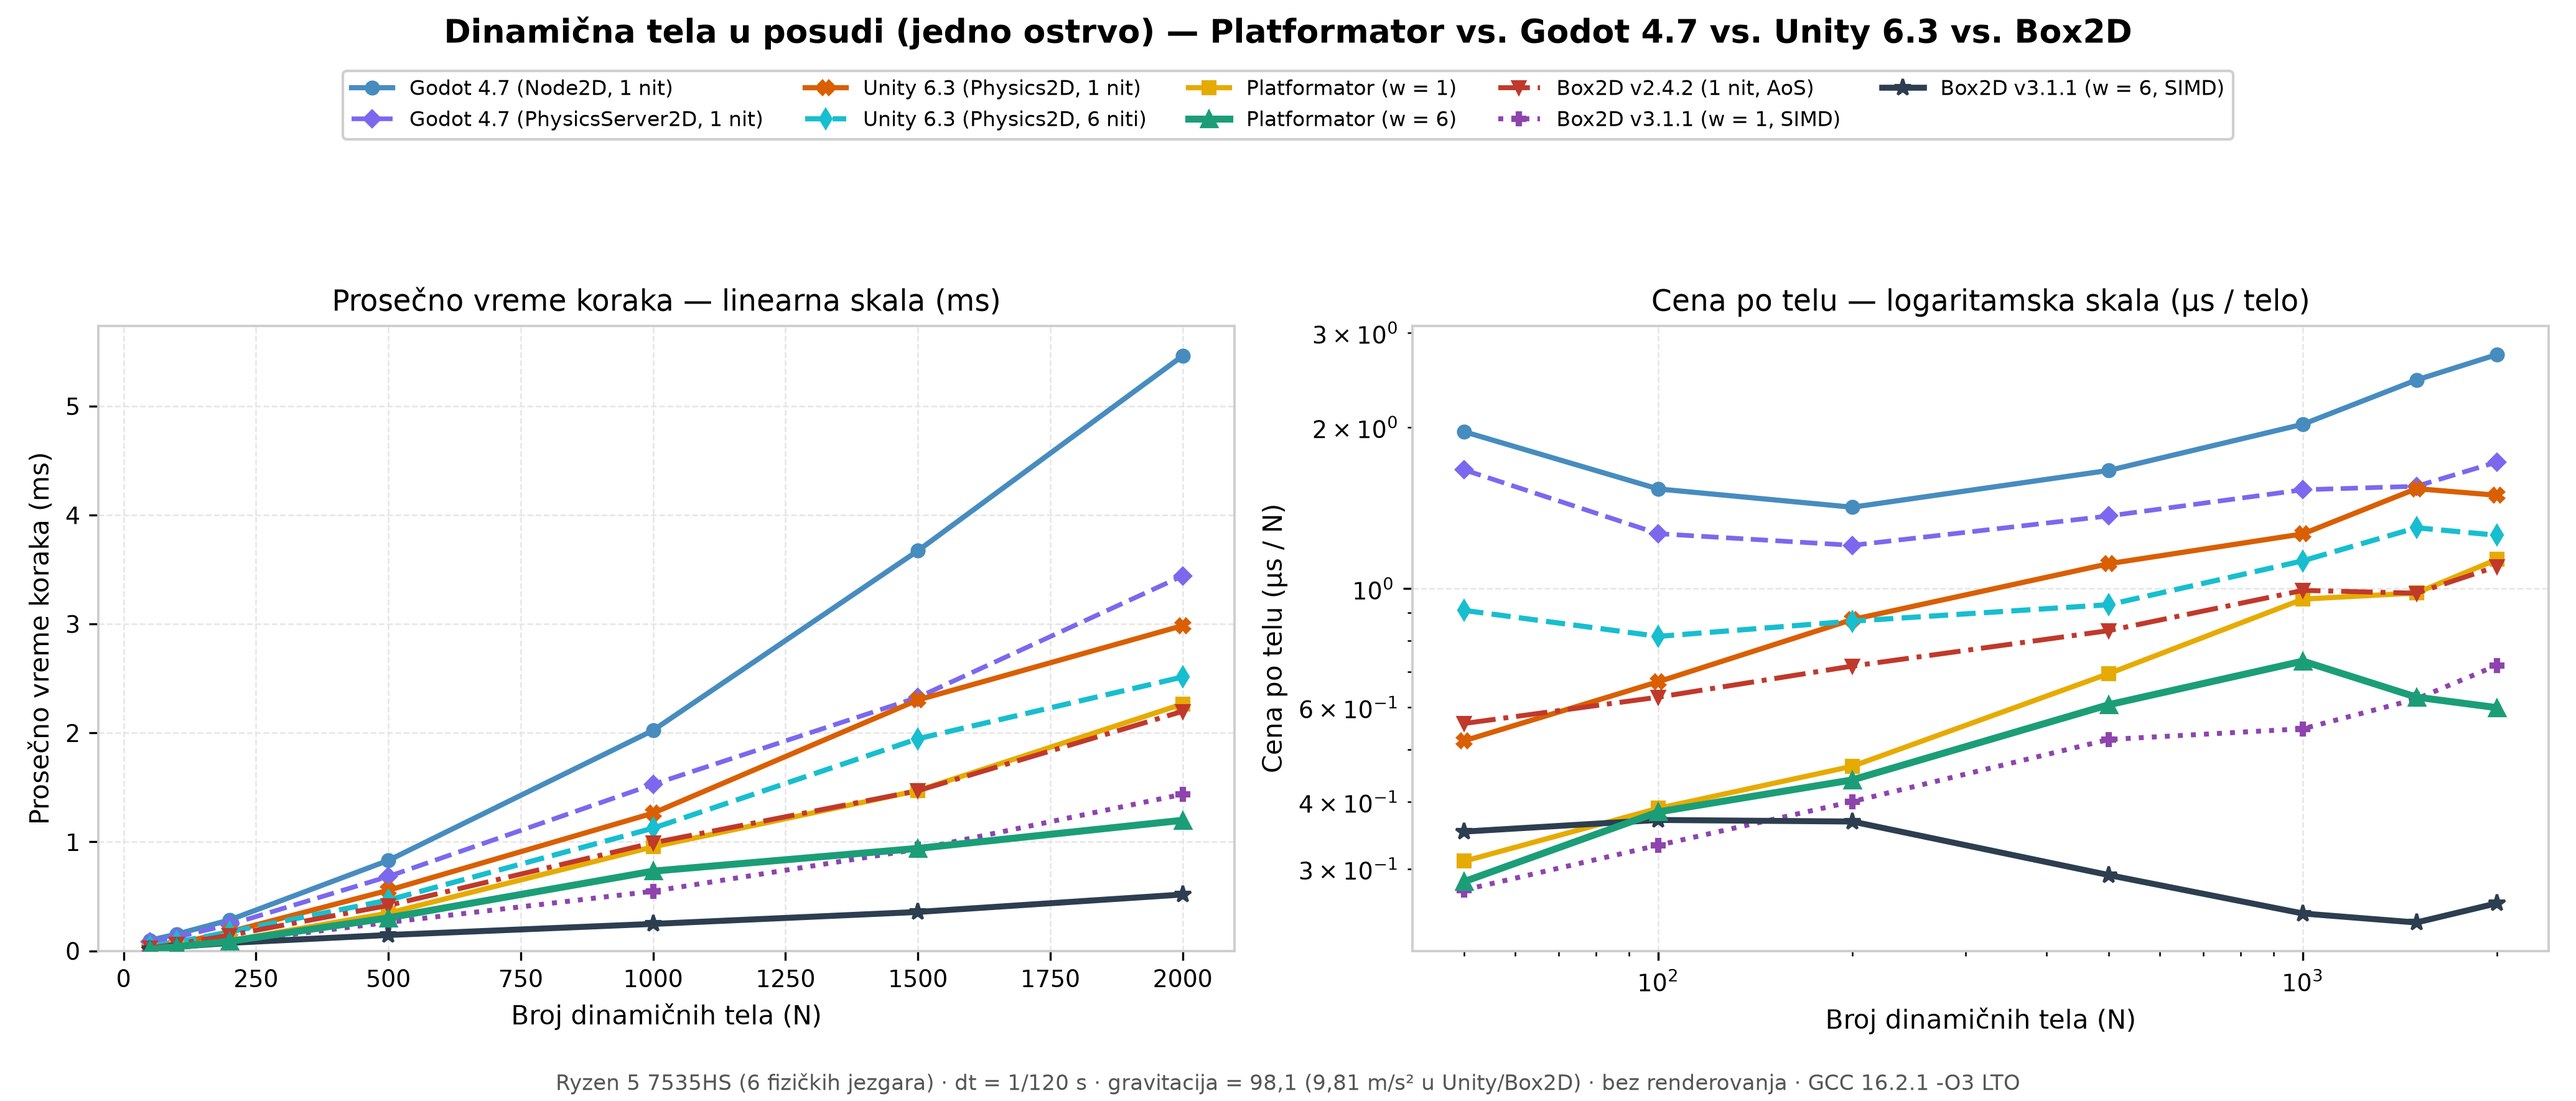
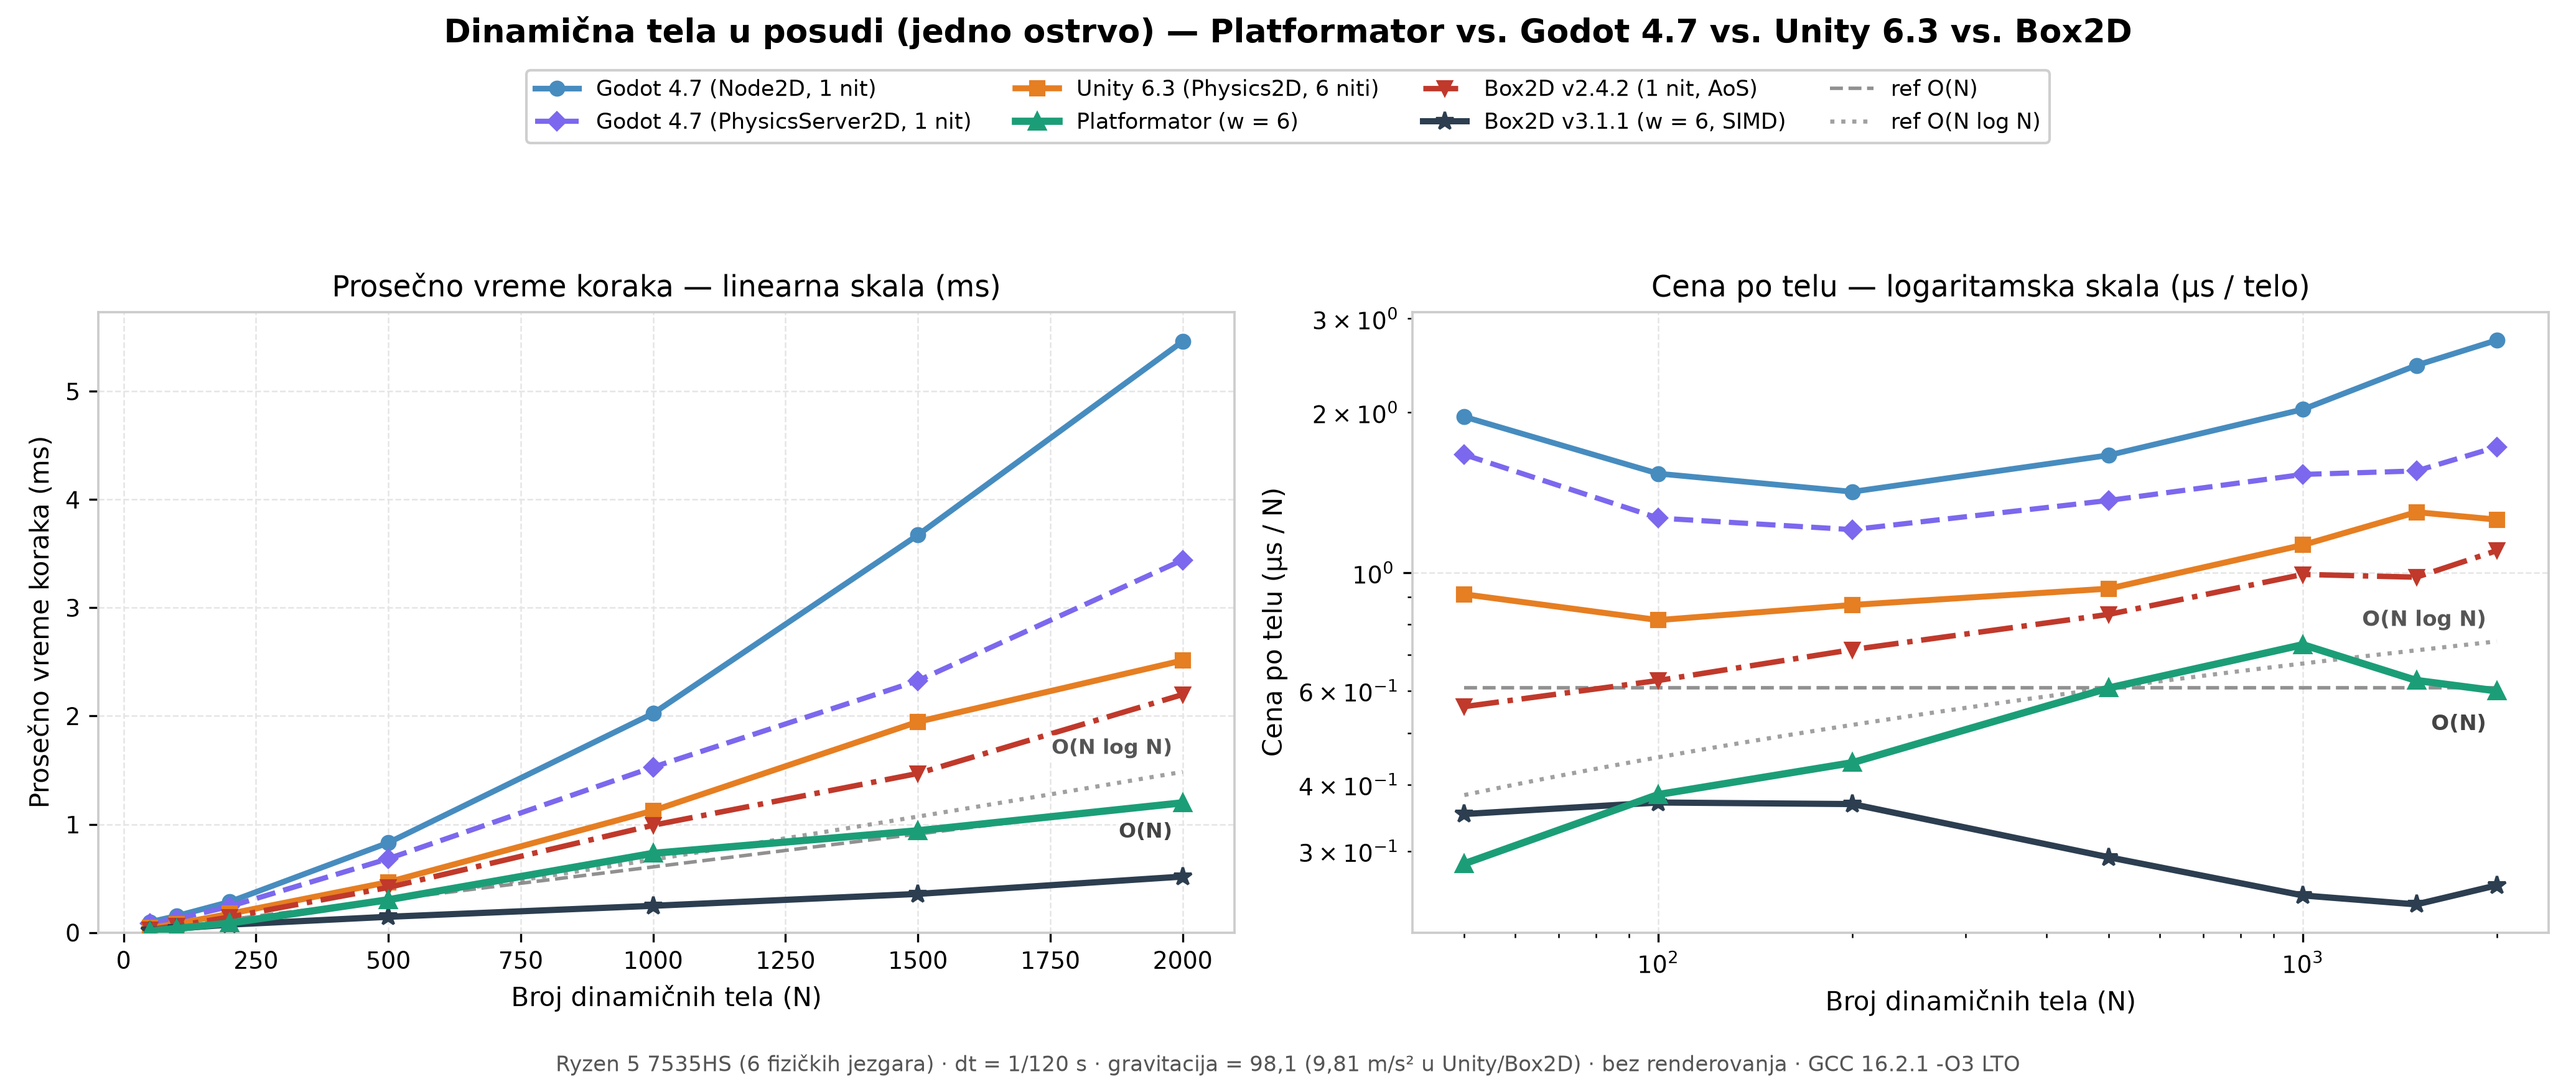
benchmark stuff

diff --git a/engine/benchmarks/plot_cross_engine.py b/engine/benchmarks/plot_cross_engine.py
@@ -19,18 +19,27 @@ import numpy as np
 
 
 SERIES_STYLE = {
-    "godot_node":      {"color": "#478cbf", "marker": "o", "ls": "-",  "lw": 2.0, "ms": 4.8, "z": 3},
-    "godot_server":    {"color": "#7b68ee", "marker": "D", "ls": "--", "lw": 1.8, "ms": 4.4, "z": 3},
-    "unity_w1":        {"color": "#d95f02", "marker": "X", "ls": "-",  "lw": 2.0, "ms": 5.2, "z": 4},
-    "unity_w6":        {"color": "#17becf", "marker": "d", "ls": "--", "lw": 2.0, "ms": 5.0, "z": 4},
-    "platformator_w1": {"color": "#e6ab02", "marker": "s", "ls": "-",  "lw": 2.0, "ms": 4.6, "z": 4},
-    "platformator_w6": {"color": "#1b9e77", "marker": "^", "ls": "-",  "lw": 2.7, "ms": 6.0, "z": 6},
-    "box2d_v2":        {"color": "#c0392b", "marker": "v", "ls": "-.", "lw": 1.9, "ms": 4.8, "z": 4},
+    "godot_node":      {"color": "#478cbf", "marker": "o", "ls": "-",  "lw": 2.2, "ms": 5.2, "z": 3},
+    "godot_server":    {"color": "#7b68ee", "marker": "D", "ls": "--", "lw": 2.0, "ms": 4.8, "z": 3},
+    "unity_w1":        {"color": "#d95f02", "marker": "X", "ls": ":",  "lw": 1.9, "ms": 5.0, "z": 3},
+    "unity_w6":        {"color": "#e67e22", "marker": "s", "ls": "-",  "lw": 2.3, "ms": 5.2, "z": 4},
+    "platformator_w1": {"color": "#d4ac0d", "marker": "p", "ls": ":",  "lw": 1.9, "ms": 4.8, "z": 4},
+    "platformator_w6": {"color": "#1b9e77", "marker": "^", "ls": "-",  "lw": 2.8, "ms": 6.4, "z": 6},
+    "box2d_v2":        {"color": "#c0392b", "marker": "v", "ls": "-.", "lw": 2.1, "ms": 5.2, "z": 4},
     "box2d_v3_w1":     {"color": "#8e44ad", "marker": "P", "ls": ":",  "lw": 1.9, "ms": 5.0, "z": 4},
-    "box2d_v3_w6":     {"color": "#2c3e50", "marker": "*", "ls": "-",  "lw": 2.3, "ms": 6.8, "z": 5},
+    "box2d_v3_w6":     {"color": "#2c3e50", "marker": "*", "ls": "-",  "lw": 2.4, "ms": 7.2, "z": 5},
 }
 
-SERIES_ORDER = [
+DEFAULT_SERIES_ORDER = [
+    "godot_node",
+    "godot_server",
+    "unity_w6",
+    "platformator_w6",
+    "box2d_v2",
+    "box2d_v3_w6",
+]
+
+ALL_SERIES_ORDER = [
     "godot_node",
     "godot_server",
     "unity_w1",
@@ -71,6 +80,8 @@ TEXT = {
         "y_norm": "Cost per body (µs / N)",
         "budget_120": "120 Hz budget (8.33 ms)",
         "budget_60": "60 Hz budget (16.67 ms)",
+        "ref_n": "ref O(N)",
+        "ref_nlogn": "ref O(N log N)",
         "overview_title": "Cross-Engine 2D Physics Comparison — Platformator, Godot 4.7, Unity 6.3 & Box2D",
         "overview_left": "Mean Step Time at High Load (Log Scale, Lower is Better)",
         "overview_right": "Ratio vs. Platformator (w = 6) at High Load (>1× = Platformator Faster)",
@@ -106,6 +117,8 @@ TEXT = {
         "y_norm": "Cena po telu (µs / N)",
         "budget_120": "Budžet 120 Hz (8,33 ms)",
         "budget_60": "Budžet 60 Hz (16,67 ms)",
+        "ref_n": "ref O(N)",
+        "ref_nlogn": "ref O(N log N)",
         "overview_title": "Među-motorno poređenje 2D fizike — Platformator, Godot 4.7, Unity 6.3 i Box2D",
         "overview_left": "Prosečno vreme koraka pri visokom opterećenju (log skala, niže je bolje)",
         "overview_right": "Odnos naspram Platformator (w = 6) (>1× = Platformator brži)",
@@ -145,32 +158,25 @@ def extract_series(rows, key):
     return xs, ys
 
 
-def plot_scenario(data: dict, scenario: str, lang: str, out_path: Path):
+def plot_scenario(data: dict, scenario: str, lang: str, out_path: Path, series_order):
     t = TEXT[lang]
     title, xlabel = t["scenarios"][scenario]
     rows = data["sweeps"][scenario]
 
-    fig, (ax1, ax2) = plt.subplots(1, 2, figsize=(13.8, 5.9), dpi=300)
+    fig, (ax1, ax2) = plt.subplots(1, 2, figsize=(13.8, 5.8), dpi=300)
     fig.suptitle(f"{title} — Platformator vs. Godot 4.7 vs. Unity 6.3 vs. Box2D", fontsize=12.6, fontweight="bold", y=0.985)
 
-    max_y = 0.0
-    for key in SERIES_ORDER:
+    for key in series_order:
         xs, ys = extract_series(rows, key)
         if not xs:
             continue
         st = SERIES_STYLE[key]
         lbl = t["labels"][key]
-        max_y = max(max_y, max(ys))
         ax1.plot(xs, ys, color=st["color"], marker=st["marker"], linestyle=st["ls"],
                  linewidth=st["lw"], markersize=st["ms"], label=lbl, zorder=st["z"])
         us_per_body = [(y * 1000.0) / float(x) for x, y in zip(xs, ys)]
         ax2.plot(xs, us_per_body, color=st["color"], marker=st["marker"], linestyle=st["ls"],
                  linewidth=st["lw"], markersize=st["ms"], zorder=st["z"])
-
-    if max_y >= 6.0:
-        ax1.axhline(8.333, color="#d62728", linestyle="--", linewidth=1.1, alpha=0.8, label=t["budget_120"])
-    if max_y >= 14.0:
-        ax1.axhline(16.667, color="#666666", linestyle=":", linewidth=1.2, alpha=0.85, label=t["budget_60"])
 
     ax1.set_title(t["panel_linear"])
     ax1.set_xlabel(xlabel)
@@ -183,23 +189,102 @@ def plot_scenario(data: dict, scenario: str, lang: str, out_path: Path):
     ax2.set_yscale("log")
     ax2.set_xscale("log")
 
+    # Add closest-fit asymptotic complexity references on BOTH left (linear ms) and right (log-log µs/N) panels.
+    p6_xs, p6_ys = extract_series(rows, "platformator_w6")
+    if p6_xs:
+        mid_idx = len(p6_xs) // 2
+        anchor_n = float(p6_xs[mid_idx])
+        anchor_ms = float(p6_ys[mid_idx])
+        anchor_us = (anchor_ms * 1000.0) / anchor_n
+
+        n_lin = np.linspace(float(p6_xs[0]), float(p6_xs[-1]), 160)
+        ref_n_ms = anchor_ms * (n_lin / anchor_n)
+        ref_nlogn_ms = anchor_ms * (n_lin * np.log2(n_lin)) / (anchor_n * np.log2(anchor_n))
+
+        ax1.plot(n_lin, ref_n_ms, color="#555555", linestyle="--", linewidth=1.35, alpha=0.65,
+                 label=t["ref_n"], zorder=2)
+        ax1.plot(n_lin, ref_nlogn_ms, color="#888888", linestyle=":", linewidth=1.6, alpha=0.80,
+                 label=t["ref_nlogn"], zorder=2)
+
+        ax1.annotate(
+            "O(N)",
+            xy=(n_lin[-1], ref_n_ms[-1]),
+            xytext=(-4, -8),
+            textcoords="offset points",
+            ha="right",
+            va="top",
+            fontsize=8.0,
+            fontweight="bold",
+            color="#444444",
+            bbox={"boxstyle": "round,pad=0.14", "fc": "white", "ec": "none", "alpha": 0.78},
+            zorder=7,
+        )
+        ax1.annotate(
+            "O(N log N)",
+            xy=(n_lin[-1], ref_nlogn_ms[-1]),
+            xytext=(-4, 5),
+            textcoords="offset points",
+            ha="right",
+            va="bottom",
+            fontsize=8.0,
+            fontweight="bold",
+            color="#555555",
+            bbox={"boxstyle": "round,pad=0.14", "fc": "white", "ec": "none", "alpha": 0.78},
+            zorder=7,
+        )
+
+        n_grid = np.geomspace(float(p6_xs[0]), float(p6_xs[-1]), 120)
+        ref_n_vals = np.full_like(n_grid, anchor_us)
+        ref_nlogn_vals = anchor_us * (np.log2(n_grid) / np.log2(anchor_n))
+
+        ax2.plot(n_grid, ref_n_vals, color="#555555", linestyle="--", linewidth=1.35, alpha=0.65, zorder=2)
+        ax2.plot(n_grid, ref_nlogn_vals, color="#888888", linestyle=":", linewidth=1.6, alpha=0.80, zorder=2)
+
+        ax2.annotate(
+            "O(N)",
+            xy=(n_grid[-1], ref_n_vals[-1]),
+            xytext=(-4, -10),
+            textcoords="offset points",
+            ha="right",
+            va="top",
+            fontsize=8.2,
+            fontweight="bold",
+            color="#444444",
+            bbox={"boxstyle": "round,pad=0.16", "fc": "white", "ec": "none", "alpha": 0.78},
+            zorder=7,
+        )
+        ax2.annotate(
+            "O(N log N)",
+            xy=(n_grid[-1], ref_nlogn_vals[-1]),
+            xytext=(-4, 4),
+            textcoords="offset points",
+            ha="right",
+            va="bottom",
+            fontsize=8.2,
+            fontweight="bold",
+            color="#555555",
+            bbox={"boxstyle": "round,pad=0.16", "fc": "white", "ec": "none", "alpha": 0.78},
+            zorder=7,
+        )
+
     handles, labels = ax1.get_legend_handles_labels()
+    ncol = 4 if len(handles) <= 8 else 5
     fig.legend(handles, labels, loc="upper center", bbox_to_anchor=(0.5, 0.945),
-               ncol=5 if len(handles) >= 9 else 4, frameon=True, framealpha=0.94, fontsize=8.0)
+               ncol=ncol, frameon=True, framealpha=0.94, fontsize=8.4)
 
     fig.text(0.5, 0.01, t["footer"], ha="center", fontsize=8.2, color="#555555")
-    plt.tight_layout(rect=[0, 0.035, 1, 0.82])
+    plt.tight_layout(rect=[0, 0.035, 1, 0.83])
     out_path.parent.mkdir(parents=True, exist_ok=True)
     fig.savefig(out_path, dpi=300)
     plt.close(fig)
 
 
-def plot_overview(data: dict, lang: str, out_path: Path):
+def plot_overview(data: dict, lang: str, out_path: Path, series_order):
     t = TEXT[lang]
-    fig, (ax1, ax2) = plt.subplots(1, 2, figsize=(14.4, 5.7), dpi=300)
-    fig.suptitle(t["overview_title"], fontsize=12.8, fontweight="bold", y=0.98)
+    fig, (ax1, ax2) = plt.subplots(1, 2, figsize=(14.0, 5.6), dpi=300)
+    fig.suptitle(t["overview_title"], fontsize=12.6, fontweight="bold", y=0.98)
 
-    # Pick highest N where EVERY engine configuration (including Unity 6T) has a valid measurement
+    # Pick highest N where EVERY selected engine configuration has a valid measurement
     specs = [
         ("broad_phase", 4000),
         ("rigid_body_container", 2000),
@@ -207,11 +292,11 @@ def plot_overview(data: dict, lang: str, out_path: Path):
     ]
     x_labels = [t["short_scenarios"][s] for s, _ in specs]
     x = np.arange(len(specs))
-    active_series = [k for k in SERIES_ORDER if all(next(r for r in data["sweeps"][s] if r["n"] == n).get(k) for s, n in specs)]
+    active_series = [k for k in series_order if all(next(r for r in data["sweeps"][s] if r["n"] == n).get(k) for s, n in specs)]
     n_series = len(active_series)
-    width = 0.84 / n_series
+    width = 0.80 / n_series
 
-    # Left panel: log-scale mean step time across all active series
+    # Left panel: log-scale mean step time across active series
     for idx, key in enumerate(active_series):
         vals = []
         for scen, n in specs:
@@ -219,27 +304,26 @@ def plot_overview(data: dict, lang: str, out_path: Path):
             vals.append(row[key]["mean_ms"])
         offset = (idx - (n_series - 1) / 2.0) * width
         st = SERIES_STYLE[key]
-        bars = ax1.bar(x + offset, vals, width * 0.92, color=st["color"], edgecolor="white", linewidth=0.5,
+        bars = ax1.bar(x + offset, vals, width * 0.90, color=st["color"], edgecolor="white", linewidth=0.6,
                        label=t["labels"][key], zorder=3)
         for bar in bars:
             h = bar.get_height()
             txt = f"{h:.2f}" if h < 10.0 else f"{h:.1f}"
             ax1.text(bar.get_x() + bar.get_width() / 2, h * 1.07, txt,
-                     ha="center", va="bottom", fontsize=6.2, rotation=90, fontweight="bold", color="#222222")
+                     ha="center", va="bottom", fontsize=7.4, rotation=90 if n_series > 6 else 0,
+                     fontweight="bold", color="#222222")
 
-    ax1.axhline(8.333, color="#d62728", linestyle="--", linewidth=1.1, alpha=0.85, label=t["budget_120"])
-    ax1.axhline(16.667, color="#666666", linestyle=":", linewidth=1.2, alpha=0.85, label=t["budget_60"])
     ax1.set_yscale("log")
     ax1.set_title(t["overview_left"])
     ax1.set_ylabel(t["y_time"])
     ax1.set_xticks(x)
     ax1.set_xticklabels(x_labels)
-    ax1.set_ylim(0.05, 320.0)
-    ax1.legend(loc="upper left", framealpha=0.92, fontsize=7.4, ncol=2)
+    ax1.set_ylim(0.05, 120.0)
+    ax1.legend(loc="upper left", framealpha=0.92, fontsize=8.0, ncol=2)
 
     # Right panel: Ratio relative to Platformator w=6 (log scale, >1 = Platformator faster, <1 = rival faster)
     rivals = [k for k in active_series if k != "platformator_w6"]
-    r_width = 0.82 / len(rivals)
+    r_width = 0.78 / len(rivals)
     for idx, key in enumerate(rivals):
         ratios = []
         for scen, n in specs:
@@ -247,12 +331,13 @@ def plot_overview(data: dict, lang: str, out_path: Path):
             ratios.append(row[key]["mean_ms"] / row["platformator_w6"]["mean_ms"])
         offset = (idx - (len(rivals) - 1) / 2.0) * r_width
         st = SERIES_STYLE[key]
-        bars = ax2.bar(x + offset, ratios, r_width * 0.92, color=st["color"], edgecolor="white", linewidth=0.5,
+        bars = ax2.bar(x + offset, ratios, r_width * 0.90, color=st["color"], edgecolor="white", linewidth=0.6,
                        label=t["labels"][key], zorder=3)
         for bar in bars:
             h = bar.get_height()
             ax2.text(bar.get_x() + bar.get_width() / 2, h * 1.07, f"{h:.2f}×",
-                     ha="center", va="bottom", fontsize=6.4, rotation=90, fontweight="bold", color="#222222")
+                     ha="center", va="bottom", fontsize=7.4, rotation=90 if len(rivals) > 5 else 0,
+                     fontweight="bold", color="#222222")
 
     ax2.axhline(1.0, color="#1b9e77", linestyle="--", linewidth=1.5, label=t["parity"], zorder=5)
     ax2.set_yscale("log")
@@ -260,8 +345,8 @@ def plot_overview(data: dict, lang: str, out_path: Path):
     ax2.set_ylabel(t["y_ratio"])
     ax2.set_xticks(x)
     ax2.set_xticklabels(x_labels)
-    ax2.set_ylim(0.08, 45.0)
-    ax2.legend(loc="upper right", framealpha=0.92, fontsize=7.4, ncol=2)
+    ax2.set_ylim(0.08, 28.0)
+    ax2.legend(loc="upper right", framealpha=0.92, fontsize=8.0, ncol=2)
 
     fig.text(0.5, 0.01, t["footer"], ha="center", fontsize=8.2, color="#555555")
     plt.tight_layout(rect=[0, 0.035, 1, 0.93])
@@ -271,13 +356,17 @@ def plot_overview(data: dict, lang: str, out_path: Path):
 
 
 def main():
-    p = argparse.ArgumentParser(description="Plot cross-engine comparison (Platformator vs Godot 4 vs Box2D).")
+    p = argparse.ArgumentParser(description="Plot cross-engine comparison (Platformator vs Godot 4 vs Unity 6 vs Box2D).")
     p.add_argument("--input", type=Path, required=True)
     p.add_argument("--output-dir", type=Path, required=True)
+    p.add_argument("--include-single-thread", action="store_true",
+                   help="Include w=1 duplicates for multithreaded engines (Platformator, Unity, Box2D v3)")
     args = p.parse_args()
 
     with open(args.input) as f:
         data = json.load(f)
+
+    series_order = ALL_SERIES_ORDER if args.include_single_thread else DEFAULT_SERIES_ORDER
 
     setup_style()
     scenario_files = [
@@ -292,10 +381,10 @@ def main():
         for fname, scen in scenario_files:
             if scen in data.get("sweeps", {}):
                 out_path = lang_dir / fname
-                plot_scenario(data, scen, lang, out_path)
+                plot_scenario(data, scen, lang, out_path, series_order)
                 generated.append(out_path)
         ov_path = lang_dir / "04_summary_overview_cross_engine.png"
-        plot_overview(data, lang, ov_path)
+        plot_overview(data, lang, ov_path, series_order)
         generated.append(ov_path)
 
     print(f"Generated {len(generated)} cross-engine plots under {args.output_dir}")
